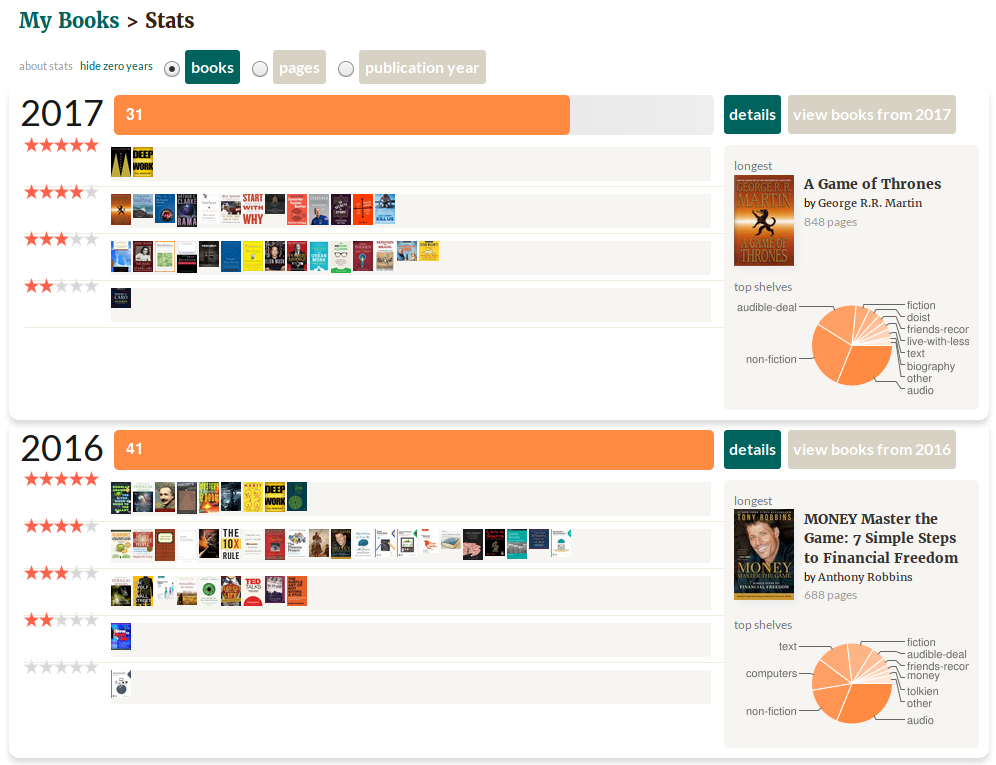
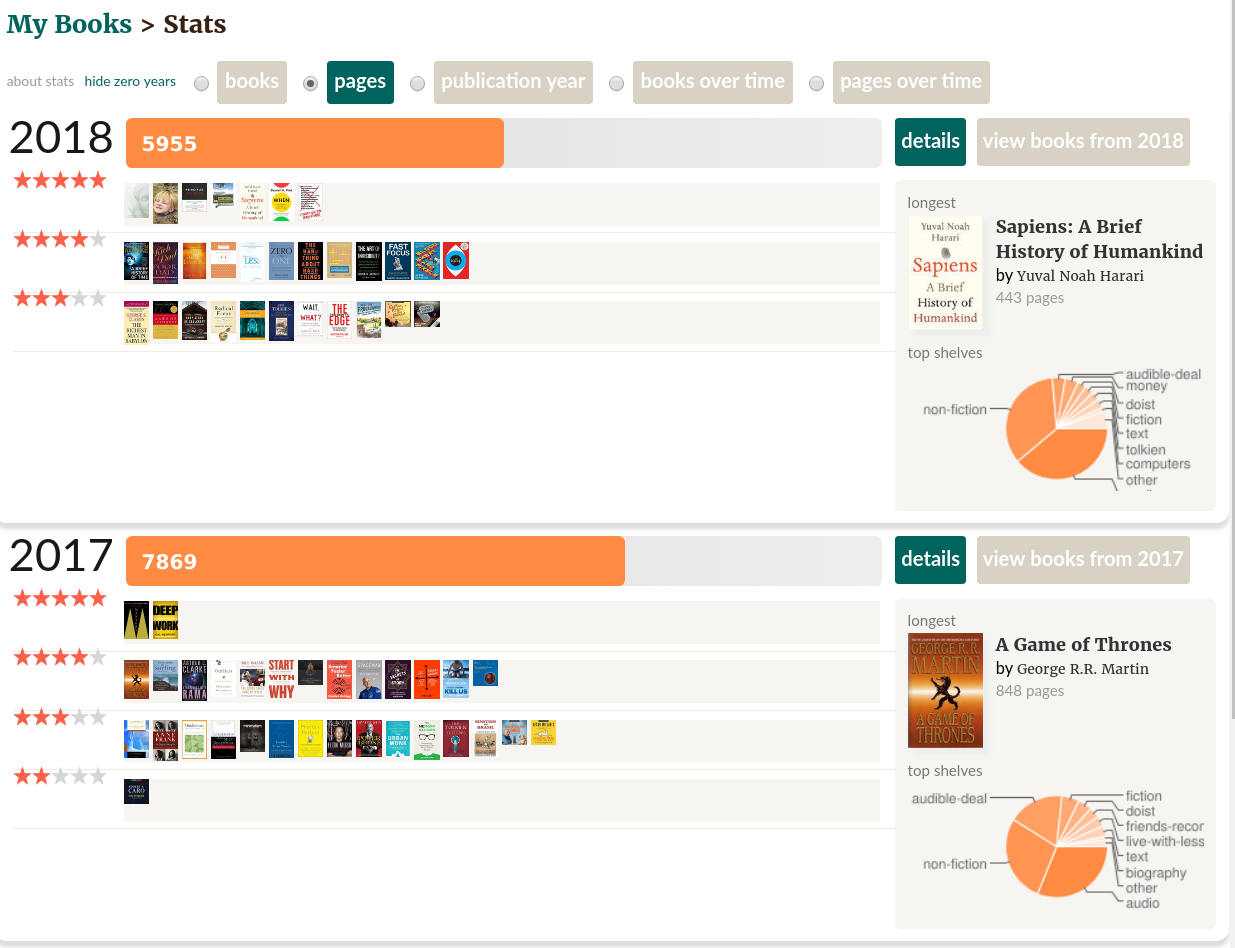
Add some data about the year in review. I still want to finish it...

diff --git a/content/post/2018-year-in-review.md b/content/post/2018-year-in-review.md
@@ -32,92 +32,82 @@ track.
 
 [![List of books read by year](/images/stats/2018/yir/goodreads-challenge.png "Goodreads challenge")](https://www.goodreads.com/challenges/7501-2018-reading-challenge "")
 
-Last year I read 42 but I decided to not be so aggressive this year
-and try a different strategy. The idea was to add a full review
-on [Goodreads](https://goodreads.com) after the book is finished, so I
-can think about how much I understood and retained about it.
+I kept the same strategy I used last year. I'm writing a review for every single
+book I read and it's been working as expected. I'm still using [Google
+keep](https://keep.google.com) to take notes of the important parts and opinions
+so I can add that to the review as well. These notes are easy to find using
+Google Keep's search engine when I need to find a reference.
 
-The experiment went really well and helped me with the process of
-adding more notes about the important parts (IMO) of the book. I'm
-using [Google keep](https://keep.google.com) for that, using a label
-for book notes. These notes help me to get into the context of the
-book. They are also easy to find using Google Keep's search engine
-when I need to find a reference.
+Here are the books from this year's list that I rated 5 stars along with my reviews for them:
 
-Here are the books from this year's list that I really recommend
-reading, with links to my review:
+* [Sapiens: A Brief History of Humankind](https://amzn.to/2CKuaCd) ([review](https://www.goodreads.com/review/show/2055385224))
+* [When: The Scientific Secrets of Perfect Timing](https://amzn.to/2Swopxd) ([review](https://www.goodreads.com/review/show/2254843906))
+* [Principles](https://amzn.to/2LJpVJH) ([review](https://www.goodreads.com/review/show/2479523573))
+* [It Doesn't Have to Be Crazy at Work](https://amzn.to/2s34SZy) ([review](https://www.goodreads.com/review/show/2555421279))
+* [Anything You Want](https://amzn.to/2SwGD1E) ([review](https://www.goodreads.com/review/show/2286561012))
 
-Non-Fiction
+These were great books that I would totally recommend to anyone. There's also: 
 
-* [Mastery](https://www.goodreads.com/review/show/1642811841)
-* [What Doesn't Kill Us: How Freezing Water, Extreme Altitude and Environmental Conditioning will Renew our Lost Evolutionary Strength](https://www.goodreads.com/review/show/2055058923)
-* [Radical Candor: Be a Kickass Boss Without Losing Your Humanity](https://www.goodreads.com/review/show/2055503546)
-* [Spaceman: An Astronaut's Unlikely Journey to Unlock the Secrets of the Universe](https://www.goodreads.com/review/show/1968545292)
-* [Deep Work: Rules for Focused Success in a Distracted World](https://www.goodreads.com/review/show/1601212243)
+* [Tolkien and the West: Recovering the Lost Tradition of Europe](https://amzn.to/2VmVqhh) ([review](https://www.goodreads.com/review/show/2371801135))
 
-Fiction
-
-* [Rendezvous with Rama](https://www.goodreads.com/review/show/2057742804)
+I really like it but I would not recommend if you don't know much about Tolkien and his writings.
 
 You can always look for my whole
-[list of books read this year on Goodreads](https://www.goodreads.com/review/list/38970458-willian-molinari?read_at=2017&sort=date_read).
+[list of books read this year on Goodreads](https://www.goodreads.com/review/list/38970458-willian-molinari?read_at=2018&sort=date_read).
 
-Here are some stats provided by Goodreads comparing all the books I
-have registered:
+Here are some stats provided by Goodreads comparing all the books I have
+registered:
 
-[![List of books read by year](/images/stats/2018/yir/goodreads.png "List of books read by year")](https://www.goodreads.com/pothix
-"")
+[![List of books read by year](/images/stats/2018/yir/goodreads.png "List of books read by year")](/images/stats/2018/yir/goodreads.png "")
 
-I started [listening to audiobooks](/post/audiobooks/) in 2016 and it
-was a huge difference in my life, as you can see in the charts above.
+If we consider the number of pages, I'm reading a lot less than the previous
+years:
 
-Let's compare the books I read this year with last year:
+[![List of books read by year](/images/stats/2018/yir/goodreads-pages.png "List of books read by year")](/images/stats/2018/yir/goodreads-pages.png "")
 
-[![Comparison between 2016 and 2017](/images/stats/2018/yir/goodreads-details.png "Comparison between 2016 and 2017")](https://www.goodreads.com/pothix
-"")
+I'm using [audiobooks](/post/audiobooks/) most of the time, so pages would not
+be accurate here, but it kinda shows the length of the books I've been reading.
 
-10 books less than last year but it was expected. What bothers me is
-that I **only gave 5 stars to 2 books** (comparing to 9 last year)
-and **the number of books with 3 starts is higher than the last year**.
+Let's compare the books I read this year with the ones read last year:
 
-The number of books in the "audible-deal" shelf is higher this year
-and most of the books in the 3-stars row are on this shelf... Maybe
-the deal is not worth the price after all.
+[![Comparison between 2016 and 2017](/images/stats/2018/yir/goodreads-details.png "Comparison between 2016 and 2017")](https://www.goodreads.com/pothix "")
 
-Even with the high number of books in the 3-star row I'm happy with my
-results for 2017 regarding books. [Mastery](http://amzn.to/2AZWD2q)
-was the shiny pearl of this year, I really like it.
+Almost the same number of books but a better distribution this time. [I had a
+complaint regarding the number of 5-star rated books last
+year](/post/2017-year-in-review/) and I decided to read less books from the
+Audible's daily deal this time. I tried to read the books I had in my list for a
+while, which means that I received some sort of recommendation for them. The
+results are really better, since I rated 7 books with 5 stars.
+
+It's worth mentioning that the pizza chart doesn't make much sense since I can
+have the same book in two different shelves (it's a tag, not really a shelf).
+
+I'm quite happy with my reading stats this year. **If I would have to recommend just one book, it would be  [Sapiens: A Brief History of Humankind](https://amzn.to/2CKuaCd).**
 
 ### ✅ Articles
 
-Unfortunately, I don't have data for the whole year but I can use the
-data I have from March to December.
+This time, different from [last year's review](post/2017-year-in-review/) I have
+a full year of metrics using [Pocket](https://getpocket.com).
 
-I could not find a good way to track the articles I read. While I'm
-still looking for a better way to do that, I'm
-using [Pocket](https://getpocket.com) and manually checking it every
-month. It means that every article I read since March was added to
-Pocket. Sometimes I read from there but others I just add it there to
-count as read.
+In January, I had **1352 articles unread and 1008 articles** read. I just retrieved
+my Pocket data now and **I have 1733 articles unread (22% increase) and 1456 articles
+read (31% increase)**.
 
-In March I had **760 articles Unread** and **570 articles Read**. Now,
-using the data from my [December stats post](/post/stats-dec-2017), I
-have **1296 articles Unread** and **946 articles Read**.
+It means that **I read 381 articles this year**, an average of **31 articles
+each month**, which is almost the double of I measure last year (!!). Again,
+it's worth mentioning that I'm aware that I will probably never read all those
+1456 articles left in my Pocket account and I'm OK with that.
 
-It means that **I read 186 articles this year**, an average of **15
-articles each month**. I'm aware that I will probably never read all
-those 1296 articles left in my Pocket account and I'm OK with that.
+Unfortunately, I couldn't find any simple way to track that so I'm still
+calculating it via code. I could write an integration for that but I'm still
+finding it hard to manage my time to work on it. 😐
 
-Worth mentioning that my definition of article read is when I found
-some interesting and useful article and read that from bottom to end.
+I'm using [Exist.io](https://exist.io/?referred_by=pothix) for many metrics but their data and charts are still not enough for what I need. Here is one example of my month average of articles read:
 
-I had no goal for reading articles but I decided to track that to
-understand how much I read every year. Before starting with audiobooks
-I was really frustrated with the state of my reading stats. I was not
-reading many books in the year but I had a feeling that I was reading
-many articles, which is not so bad. By tracking that I have the data I
-need to prove to myself that I'm reading enough, which helps with the
-[impostor symdrome](https://en.wikipedia.org/wiki/Impostor_syndrome).
+[![Average of articles read by month](/images/stats/2018/yir/exist-articles-monthly.png "Average of articles read by month")](/images/stats/2018/yir/exist-articles-monthly.png "")
+
+It's nice to have that so I can possibly have correlations in the future, but
+it's not as good as having the final numbers.
 
 ### ✅ Coding
 
@@ -192,56 +182,44 @@ like to be, hope to improve it in 2018.
 Forget about "Other" it's related to Bash because of my plugin. 🙄
 
 In general, these are great results IMO. 😃
-
+                                                                                                                                                                                                                                                                                                                                                                                                                                                                                                                                                                            
 ### ✅ Speaking
 
-I have to say that I'm really proud of myself on this one. 😃
+As expected, I had a hangover of speaking. I did 24 presentations last
+year and I was really tired of doing that. I met my goal in 2017 and had nothing
+planned for 2018.
 
-Here is the burndown chart I created to follow up each month (nothing fancy, a simple Google spreadsheets):
+With that said, I still [presented 4 times this year](/talks). [One of these talks
+was delivered in English in
+Brazil](https://www.youtube.com/watch?v=8DUENLiOfiQ), which is not that common. 🙂
 
-[![Burn down chart for my presentations](/images/stats/2018/yir/presentations.png "Burn down chart for my presentations")](/images/stats/2018/yir/presentations.png "")
+The number of talks was very modest when compared with my stats from 2017 but I also did some other activities related to speaking:
 
-For those who don't know yet (because I usually don't post publicly
-many things), I was in a "competition"
-with *[Milhouse](http://milhouseonsoftware.com)'s last year ghost*.
-
-This story is worth sharing since it was part of my goals:
-
-_In December 2016 I asked Milhouse about how many talks he gave and he_
-_said it was 18 talks. I was stunned. At the time, I was really proud_
-_of my personal record of 12 talks in one year and I know it was really_
-_hard to achieve this number. I asked him to post about it on his blog_
-*and [here it is](http://milhouseonsoftware.com/2016/12/29/retro_216/)*.
-_When I saw that, I started a competition with_
-_myself, my goal was **to speak in 2017 more than Milhouse did in 2016**_.
-
-It looks like a time trial race in video games when you have to defeat
-your own "ghost" or the "ghost" of a friend. For those who played bike
-racer from [Top Free Games](http://www.topfreegames.com/), it's just
-like that.
-
-It may look silly but I always do "competitions" like that to motivate
-myself. Sometimes I use my own data and others I use the data from
-someone I admire or someone who did amazing things. This time was
-really nice because I told that I was doing it to some friends
-(including Milhouse) and it was a cool internal joke between us.
-
-Thanks to that "competition" I could motivate myself to:
-
-* Propose a talk to [FOSDEM](https://fosdem.org) and speak outside the
-  country in a different language. Milhouse had 1 talk outside of
-  Brazil, so I had to beat that. For this reason, I spoke in Belgium and Portugal.
-* Speak 3 times in the same conference
-  ([TDC](http://www.thedevelopersconference.com.br)) about 3 different
-  languages (Go, Ruby, Javascript) and 3 different fields (CLI, Web,
-  Games)
-* Do 5 talks with live-coding. 3 of them starting from scratch, with a
-  blank text file and 40 minutes of time (For those who don't know,
-  one of my biggest fears was live-coding talks)
-
-Met a lot of new people, studied many languages, and had **a ton** of
-fun. I really recommend this motivation hacking. It's not just for
-speaking, you can use it for anything you want.
+* I'm still one of the main organizers of [Guru-SP](https://gurusp.org), which
+  is the São Paulo Ruby Users group. This year was the group's 10 years
+  anniversary. I'm really proud to reach this milestone. We also met our goal of
+  [6 meetups this year](https://www.gurusp.org/encontros/)! It may seem to be
+  something simple but it's hard work to keep a group of volunteers together
+  making a group happen for 10 years straight.
+* I'm revived the [Rust-SP](https://www.meetup.com/Rust-Sao-Paulo-Meetup/), a
+  group dedicated to discuss the Rust language in São Paulo. The group were born
+  some years ago but was not maintained anymore. When the original creator
+  decided to end the activities of the group I decided to pick it up along with
+  [Marcelo Castellani](https://twitter.com/mfcastellani) and make it happen
+  again. We got some help for other Rustaceans and we now have a healthy
+  community again. Hope to have many meetups this year.
+* We ([Marcelo Castellani](https://twitter.com/mfcastellani), [Bruno
+  Rocha](https://twitter.com/rochacbruno), and me) organized the Rust
+  room inside [The Developers
+  Conference](http://thedevelopersconference.com.br) São Paulo. It was
+  the first time we had space for such language in the conference, so
+  it was quite a challenge for us.
+* I joined the core team of organizers of [Rust
+  LATAM](https://rustlatam.org) after [RustConf](https://rustconf.com)
+  and I'm now making it happen. Rust LATAM conference will happen this
+  March 29 and 30 in Montevideo, Uruguay.
+  
+Now that I listed all of these activities, I'm quite satisfied with what I did this year. That's why I like to write these yearly reviews. 😁
 
 
 ### ✅ Completed tasks
